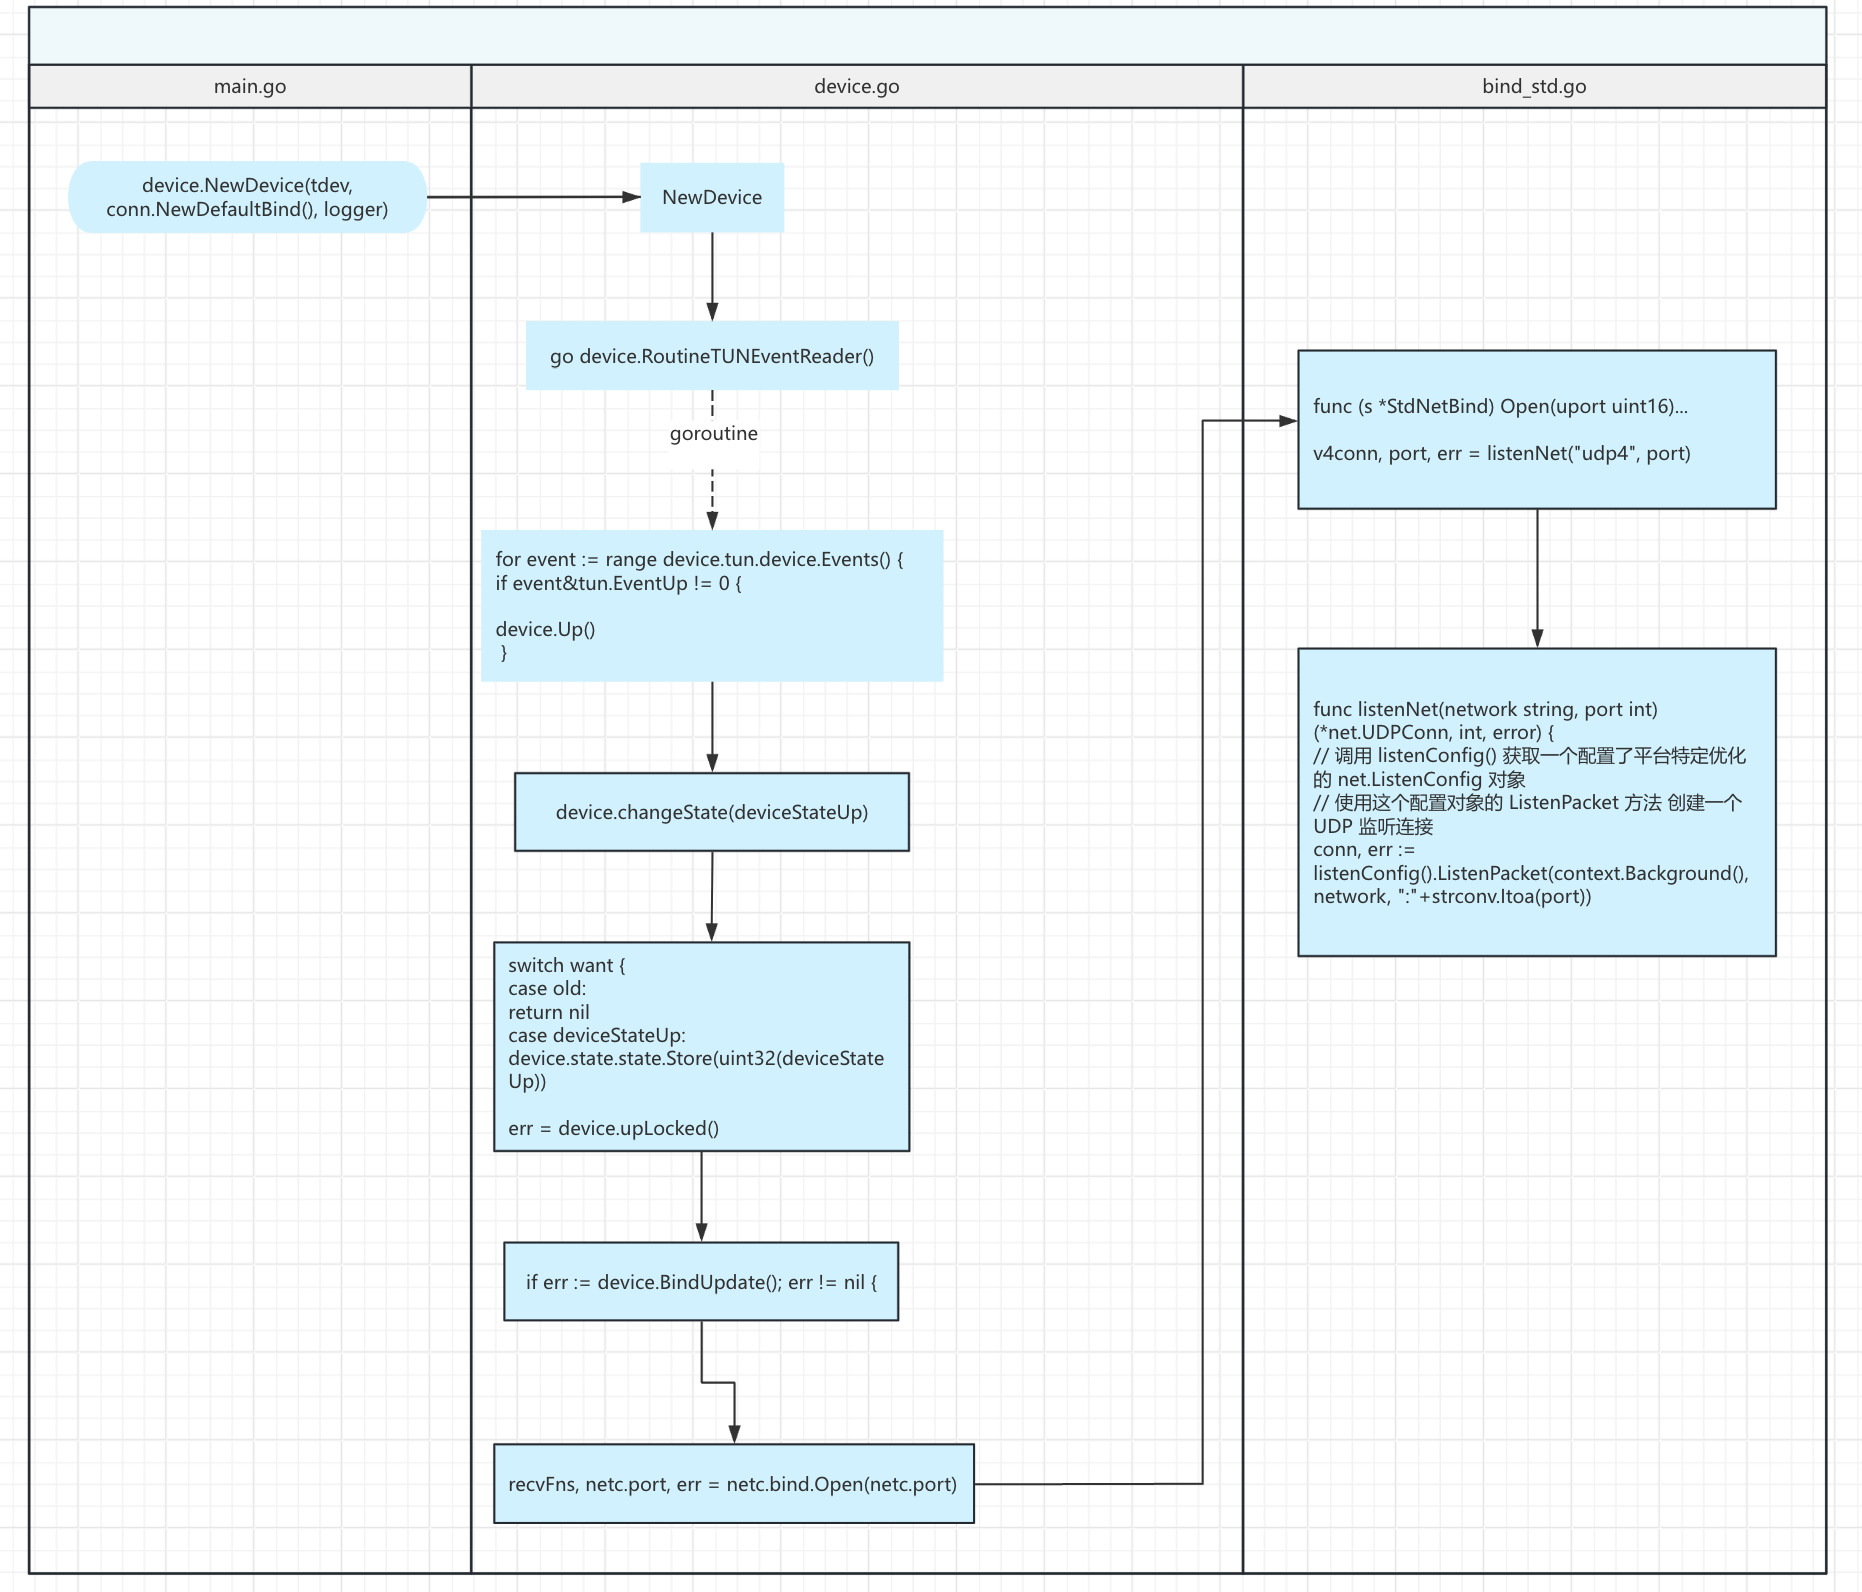
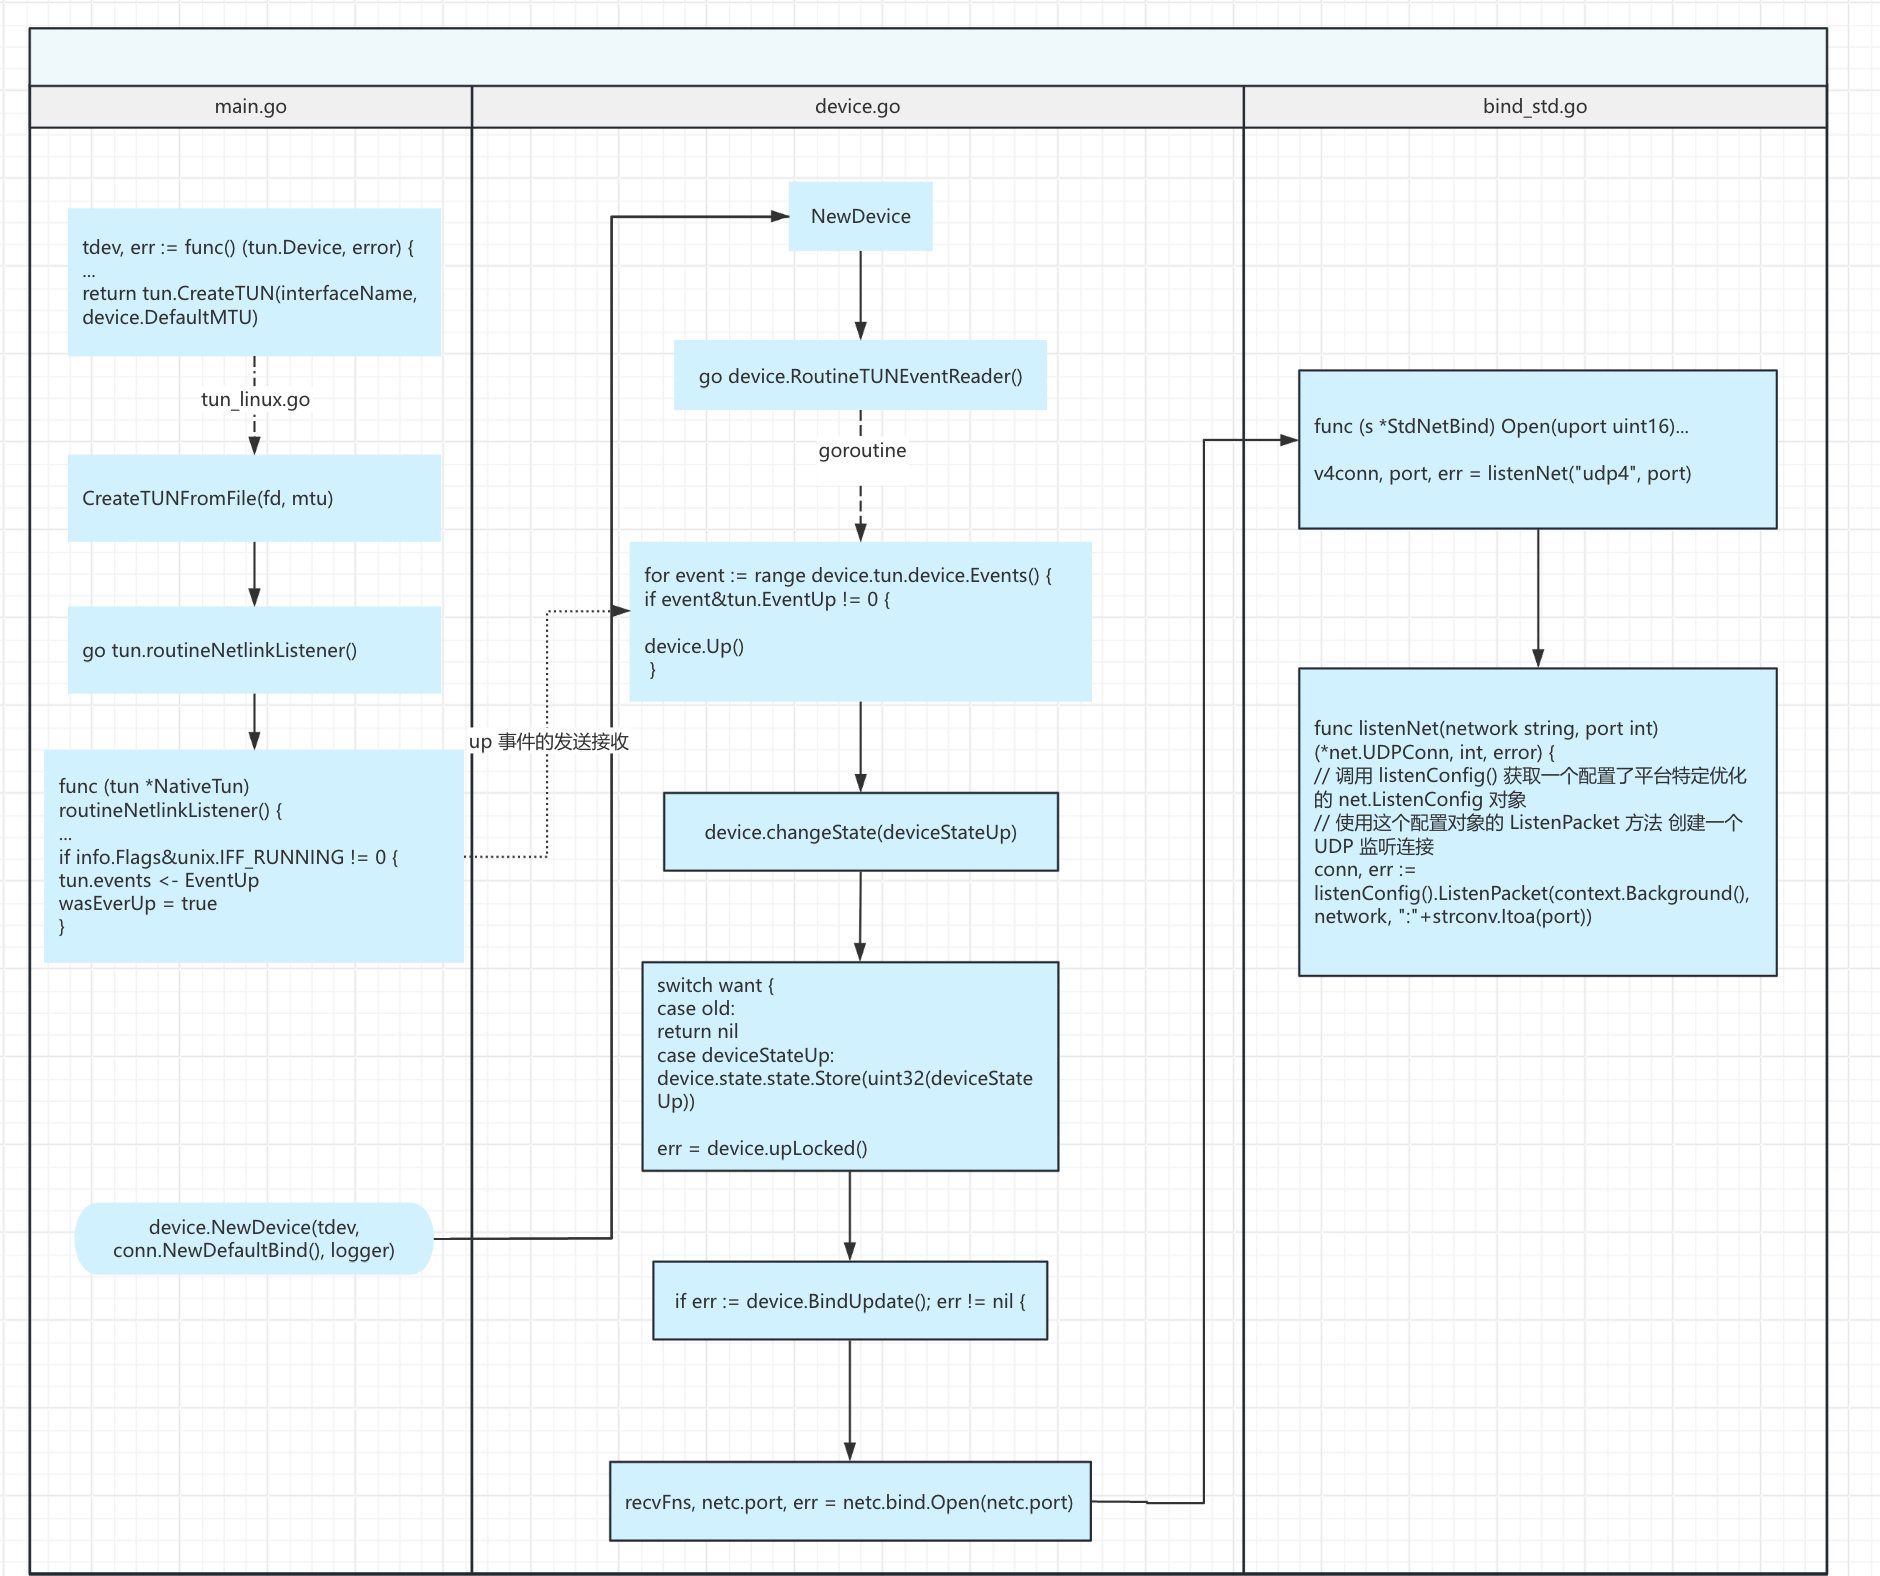
fix

Changed region(s): [[0.0, 0.0, 0.9968, 1.0]]

diff --git a/tun/tun_linux.go b/tun/tun_linux.go
@@ -123,6 +123,8 @@ func createNetlinkSocket() (int, error) {
 	return sock, nil
 }
 
+// 主要负责在 Linux 系统上通过 netlink 协议监听 TUN 设备的状态变化。
+// 该方法作为一个独立的 goroutine 运行，持续监控网络接口的状态，并在发生变化时通过事件通道通知 WireGuard 主程序。
 func (tun *NativeTun) routineNetlinkListener() {
 	defer func() {
 		unix.Close(tun.netlinkSock)
@@ -613,37 +615,44 @@ func CreateTUN(name string, mtu int) (Device, error) {
 }
 
 // CreateTUNFromFile creates a Device from an os.File with the provided MTU.
+// 负责 从已有的文件对象 创建和初始化 TUN 虚拟网络设备。
+// 该 函数 接收一个已打开的 os.File 对象 和指定的 MTU 值，返回一个实现了 Device 接口的 NativeTun 设备实例。
 func CreateTUNFromFile(file *os.File, mtu int) (Device, error) {
+	// 创建 NativeTun 结构体实例 并初始化各项字段：
 	tun := &NativeTun{
-		tunFile:                 file,
-		events:                  make(chan Event, 5),
-		errors:                  make(chan error, 5),
-		statusListenersShutdown: make(chan struct{}),
-		tcpGROTable:             newTCPGROTable(),
-		udpGROTable:             newUDPGROTable(),
-		toWrite:                 make([]int, 0, conn.IdealBatchSize),
+		tunFile:                 file,                                //保存传入的文件对象
+		events:                  make(chan Event, 5),                 // 创建用于传递设备事件的带缓冲通道（
+		errors:                  make(chan error, 5),                 // 创建用于传递错误信息的带缓冲通道
+		statusListenersShutdown: make(chan struct{}),                 // 创建用于通知监听器关闭的通道
+		tcpGROTable:             newTCPGROTable(),                    // 初始化 TCP 分段重组表
+		udpGROTable:             newUDPGROTable(),                    // 初始化 UDP 分段重组表
+		toWrite:                 make([]int, 0, conn.IdealBatchSize), // 初始化用于批处理写操作的索引切片
 	}
 
+	// 获取设备名称并初始化设备标志
 	name, err := tun.Name()
 	if err != nil {
 		return nil, err
 	}
-
+	// 调用 tun.initFromFlags() 根据设备标志初始化设备特性（如是否支持VIRTIO头部、批处理大小等）
 	err = tun.initFromFlags(name)
 	if err != nil {
 		return nil, err
 	}
 
 	// start event listener
+	// 获取 网络接口索引（通过 SIOCGIFINDEX ioctl）
 	tun.index, err = getIFIndex(name)
 	if err != nil {
 		return nil, err
 	}
 
+	// 创建 netlink 套接字 用于监听网络接口状态变化
 	tun.netlinkSock, err = createNetlinkSocket()
 	if err != nil {
 		return nil, err
 	}
+	// 为 netlink 套接字创建取消读取功能，用于在需要时及时关闭监听
 	tun.netlinkCancel, err = rwcancel.NewRWCancel(tun.netlinkSock)
 	if err != nil {
 		unix.Close(tun.netlinkSock)
@@ -651,7 +660,12 @@ func CreateTUNFromFile(file *os.File, mtu int) (Device, error) {
 	}
 
 	tun.hackListenerClosed.Lock()
+
+	// routineNetlinkListener(): 通过 netlink 协议 监听接口状态变化（如接口上线/下线、MTU变更等）
+	// 这里面检测到接口 状态变化 后 会 触发 events 通道 发送 对应事件，这样消费端就可以启动 UDP 监听了
 	go tun.routineNetlinkListener()
+
+	// routineHackListener(): 提供一种跨网络命名空间检测接口状态的替代方法（通过向设备写入空数据并检测错误类型）
 	go tun.routineHackListener() // cross namespace
 
 	err = tun.setMTU(mtu)

diff --git a/tun/netstack/tun.go b/tun/netstack/tun.go
@@ -140,7 +140,9 @@ func CreateNetTUN(localAddresses, dnsServers []netip.Addr, mtu int) (tun.Device,
 
 	// 路由配置：所有匹配默认路由的数据包 都将通过编号为 1 的 NIC 发送
 
-	dev.events <- tun.EventUp // 发送上线事件：向设备的事件通道发送 tun.EventUp 事件，表示接口已启用
+	// 发送启动事件：向设备的事件通道发送 tun.EventUp 事件，表示接口已启用
+	// 事件接收方通过 for event := range device.tun.device.Events() 监听该事件，并执行相应的启动逻辑
+	dev.events <- tun.EventUp
 	return dev, (*Net)(dev), nil
 }
 
